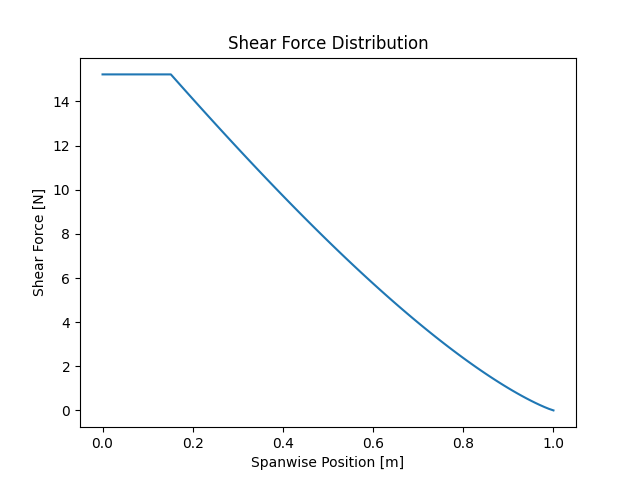
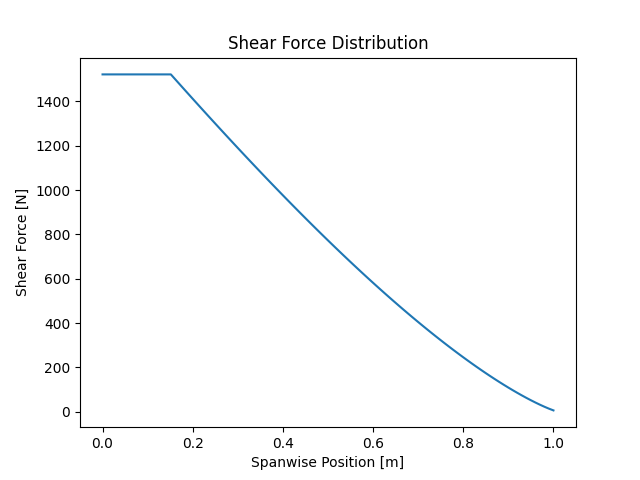
fix shear force as per Teo's instructions | initial bending moment (needs to be fixed)

diff --git a/src_final/structural_analysis/wing-loading.py b/src_final/structural_analysis/wing-loading.py
@@ -122,8 +122,8 @@ class WingModel:
         # Step 6: Interpolate the shear
         self.shear_node_tot = interp1d(reduced_sectional_spanwise_positions,shear_wall_cop)
     
-        shear_each_node = self.shear_node_tot(reduced_sectional_spanwise_positions)
-        shear_each_node = np.concatenate(( np.full(np.size(c_stations) - np.size(shear_each_node), shear_each_node[0]), shear_each_node))
+        self.shear_stress_each_node = self.shear_node_tot(reduced_sectional_spanwise_positions)
+        self.shear_stress_each_node = np.concatenate(( np.full(np.size(c_stations) - np.size(self.shear_stress_each_node), self.shear_stress_each_node[0]), self.shear_stress_each_node))
         
         # Step 7 (optional): print values for debug
         if debug:
@@ -134,70 +134,90 @@ class WingModel:
             print(f'Spanwise positions [m]: {y_stations}')
             print(f'Torsion [N/m]: {torsion_stations_cop}')
             print(f'Cross-section Areas [m2]: {cross_section_areas_cop}')
-            print(f'Shear stress [Pa]: {shear_each_node}')
+            print(f'Shear stress [Pa]: {self.shear_stress_each_node}')
 
         # Step 8 (optional): Plot
         if plot:
             fig = plt.figure()
-            plt.plot(y_stations, shear_each_node)
+            plt.plot(y_stations, self.shear_stress_each_node/1e6)
             plt.xlabel("Spanwise Position [m]")
-            plt.ylabel("Shear Stress [Pa]")
+            plt.ylabel("Shear Stress [MPa]")
             plt.title("Shear Stress Distribution")
             fig.savefig('shear_stress_distribution.png')
             plt.show()
             
-        return shear_each_node
 
     def step_shear_forces(self,
                           reduced_sectional_spanwise_positions:float,
                           modified_sectional_lifts_schrenk: float,
                           debug: bool,
                           plot: bool):
-    #lift and segment where it is applied
-    # dV/dx = -w(x) --> distributed lift
-    # V(x) = int^x_0(-w(x)dx)
         
-        # Step 1: Find the distributed load (lift) on the wing and the spanwise positions of each section
+        # Step 1: Find the lift acting on the wing and the spanwise positions of each section
         self.lift_cont_forces = interp1d (reduced_sectional_spanwise_positions,modified_sectional_lifts_schrenk)
-        _, _, y_stations, _ = self.planform.sectional_properties(number_of_sections=self.number_of_nodes)
-        y_stations_cop = y_stations[-np.size(reduced_sectional_spanwise_positions):]
+        _, _, self.y_stations, _ = self.planform.sectional_properties(number_of_sections=self.number_of_nodes)
+        self.y_stations_cop = self.y_stations[-np.size(reduced_sectional_spanwise_positions):]
+        self.lift_cont_forces_cop = self.lift_cont_forces(self.y_stations_cop)
+  
 
-        # Step 2: Integrate to get the shear force
-        lift_cont_forces_cop = self.lift_cont_forces(y_stations_cop)
-        self.shear_cont_forces = cumulative_trapezoid(lift_cont_forces_cop,y_stations_cop, initial=0)
+        # Step 2: Use cumsum to sum the shear forces over the wingspan from the interpolated lift, then trim it
+        self.internal_shear_forces_cop = np.cumsum(self.lift_cont_forces_cop[::-1])[::-1]
 
         # Step 3: Interpolate the shear
-        self.shear_node_tot = interp1d(reduced_sectional_spanwise_positions,self.shear_cont_forces)
-    
-        shear_each_node = self.shear_node_tot(reduced_sectional_spanwise_positions)
-        shear_each_node = shear_each_node[-1] - shear_each_node
-        shear_each_node = np.concatenate(( np.full(np.size(c_stations) - np.size(shear_each_node), shear_each_node[0]), shear_each_node))
+        self.internal_shear_forces_cop = interp1d(self.y_stations_cop,
+                                              self.internal_shear_forces_cop,
+                                              kind='zero',
+                                              fill_value='extrapolate')
+        
+        self.shear_each_node_cop = self.internal_shear_forces_cop(self.y_stations_cop)        
+        self.shear_each_node = self.internal_shear_forces_cop(self.y_stations)
+        self.shear_force_each_node = np.concatenate(( np.full(np.size(c_stations) - np.size(self.shear_each_node), self.shear_each_node[0]), self.shear_each_node))
         
         # Step 3 (optional): print intermediate values for debug
         if debug:
             print(f'Number of sections: {nr_sections}')
-            print(f'Spanwise positions [m]: {y_stations}')
-            print(f'Distributed lift [N]: {lift_cont_forces_cop}')
-            print(f'Shear force [N]: {shear_each_node}')             
+            print(f'Spanwise positions [m]: {self.y_stations}')
+            print(f'Distributed lift [N]: {self.lift_cont_forces_cop}')
+            print(f'Shear force [N]: {self.shear_each_node}')             
 
         # Step 4 (optional): plot
         if plot:
             fig = plt.figure()
-            plt.plot(y_stations, shear_each_node)
+            plt.plot(self.y_stations, self.shear_each_node)
             plt.xlabel('Spanwise Position [m]')
             plt.ylabel("Shear Force [N]")
             plt.title("Shear Force Distribution")
             fig.savefig('shear_force_distribution.png')
             plt.show()
         
-        return shear_each_node
 
-    def step_moment():
-    #distance from root and lift
-    # dM/dx = V(x)
-    # M(x) = int^x_0(V(x)dx)
 
-        return moments
+    def step_moment(self,
+                    debug: bool,
+                    plot: bool):
+    # Step 1: Integrate the shear loads
+        y_stations_cop_fine = np.linspace(self.y_stations_cop[0], self.y_stations_cop[-1], 100 * len(self.y_stations_cop))
+        y_stations_fine =  np.linspace(self.y_stations[0], self.y_stations[-1], 100 * len(self.y_stations))
+        internal_shear_forces_cop_fine = self.internal_shear_forces_cop(y_stations_cop_fine)
+        internal_bending_moments_cop = np.concatenate([[0], cumulative_trapezoid(internal_shear_forces_cop_fine, y_stations_cop_fine)])
+        print(internal_bending_moments_cop)
+        self.internal_bending_moments = interp1d(
+                                     y_stations_cop_fine,
+                                     internal_bending_moments_cop,
+                                     kind='linear')
+        self.internal_bending_moments = self.internal_bending_moments(y_stations_fine)
+
+        # Step 2 (optional): print intermediate values if debug
+        if debug:
+            print(f'Number of sections: {len(self.y_stations)}')
+            print(f'Spanwise positions [m]: {self.y_stations}')
+            print(f'Shear forces (outside of fuselage) [N]: {self.internal_shear_forces_cop}')
+            print(f'Bending Moments [Nm]: {self.internal_bending_moments}')
+
+
+        # Step 3 (optional): plot
+
+
 
 if __name__=='__main__':
         material_1 = Material(density=1600,
@@ -249,7 +269,9 @@ if __name__=='__main__':
         #print(c_stations)
         #torsion = wing_model.step_torsion_determination(c_stations,nr_sections,span_poz,lift_span)
         #print(torsion)
-        shear = wing_model.step_shear_stress(reduced_sectional_spanwise_positions=span_poz, nr_sections=nr_sections,
-                                             modified_sectional_lifts_schrenk=lift_span, debug = True, plot = True)
-        shear_force = wing_model.step_shear_forces(reduced_sectional_spanwise_positions=span_poz,
-                                                   modified_sectional_lifts_schrenk=lift_span,debug = False, plot = True)
+        wing_model.step_shear_stress(reduced_sectional_spanwise_positions=span_poz, nr_sections=nr_sections,
+                                             modified_sectional_lifts_schrenk=lift_span, debug = False, plot = False)
+        wing_model.step_shear_forces(reduced_sectional_spanwise_positions=span_poz,
+                                                   modified_sectional_lifts_schrenk=lift_span,debug = False, plot = False)
+        wing_model.step_moment(debug = True, plot = True)
+        
